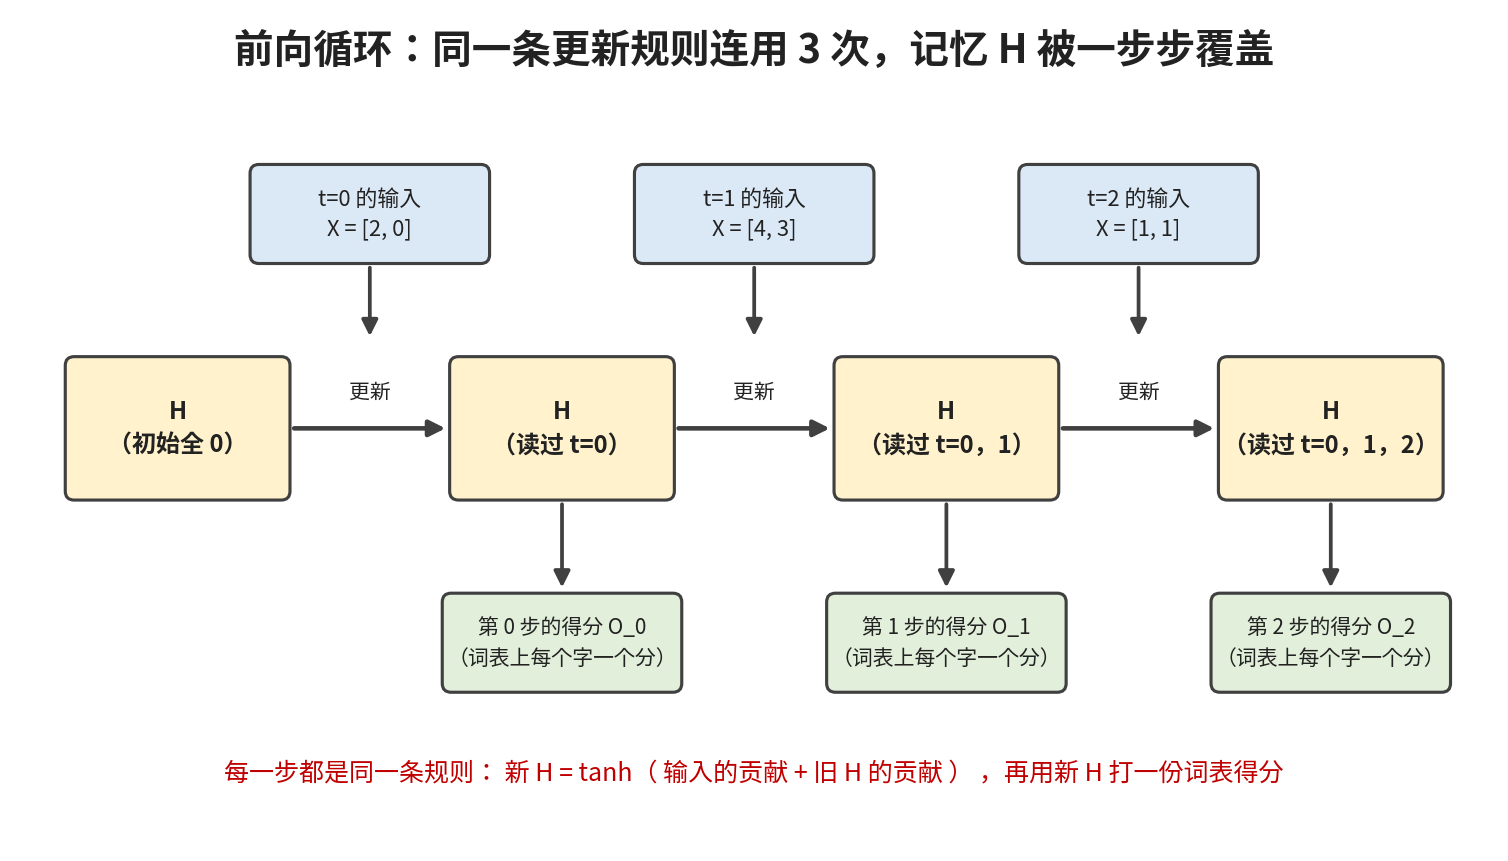
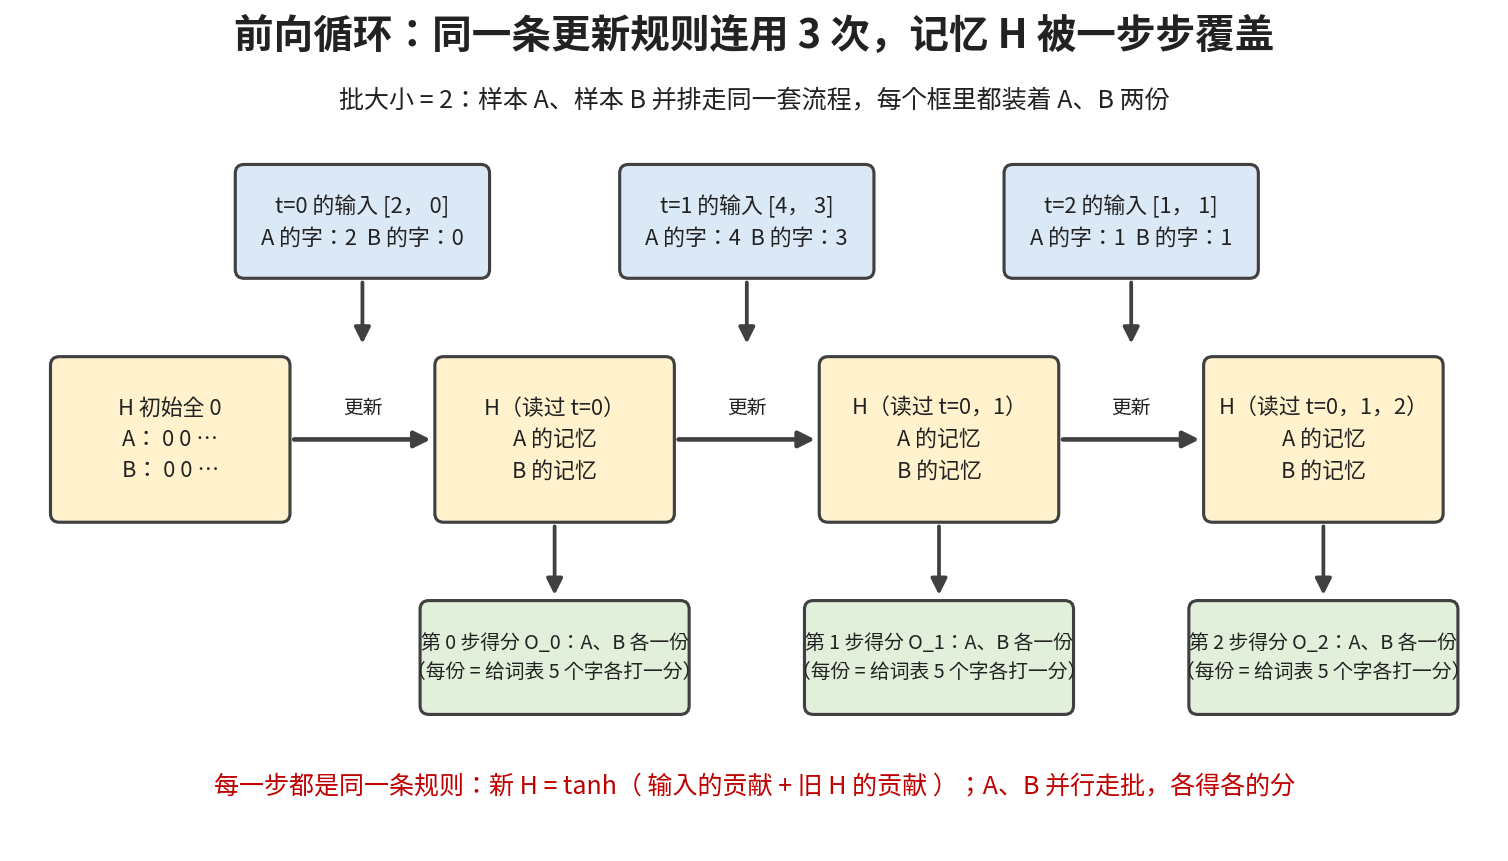
docs: RNN 文章章节重组：连乘拆成前向/反向两本账、先病后药、体量均衡

diff --git a/site/src/content/deep-learning/rnn.md b/site/src/content/deep-learning/rnn.md
@@ -2,7 +2,7 @@
 
 它要解决的矛盾一句话能说清：**想记住历史，又不能让参数爆炸。** 死记硬背的方案记得越多参数越多，注定走不远；RNN 的答案是不存历史本身，只存一个**固定大小、不断更新的"记忆账本"**。今天大语言模型"读到哪、记到哪"的直觉源头，就是这本账本。
 
-本文由浅入深：先看序列数据特殊在哪、文字怎么变成数字（一、二节），再看传统"数频率"方案怎么撞墙（三节）；然后是主角 RNN 的原理、评价指标和训练全程（四、五、六节）；最后拆开它的两大顽疾——梯度爆炸与消失（七、八节），看它的天花板怎么引出 LSTM 与注意力（九节）。
+本文由浅入深：先看序列数据特殊在哪、文字怎么变成数字（一、二节），再看传统"数频率"方案怎么撞墙（三节）；然后是主角 RNN 的原理、评价指标和训练全程（四、五、六节）；最后集中算一笔"连乘"的账——前向的雪球与 tanh 的刹车（七节）、反向的梯度爆炸与消失（八节），以及治法与 RNN 的天花板（九节）。
 
 ---
 
@@ -41,33 +41,26 @@
 
 > 本节回答："猜下一个词"的传统方案是什么？为什么注定走不通？
 
-**语言模型 = 给定前文，猜下一个词。** 它还附赠一个能力：给整句话的概率打分。链式法则把整句概率拆成 `P(x_1,…,x_T) = ∏ P(x_t | 前文)`——把一句话从头走到尾，把每一步真实出现的那个词拿到的概率连乘起来，就是整句话的概率。概率高的更"像人话"：语音识别里"你好"和"泥嚎"发音相同，语言模型算出前者概率高得多，就选它。
+**语言模型 = 给定前文，猜下一个词。** 把每一步的概率连乘起来（链式法则），还能给整句话打分——语音识别里"你好"和"泥嚎"发音相同，语言模型知道前者概率高得多，就选它（这个打分标准，第五节评价模型时还会用到）。
 
-实际计算不直接连乘，而是取 log 把连乘变加法：100 个词、每词概率 0.01，整句概率 10⁻²⁰⁰，早低于 float32 能表示的下限、会被舍入成 0（下溢）；取 log 后变成普通负数相加。再加个负号得到 **`−log P`（意外值）**：猜对为 0，越离谱越大——这正是交叉熵损失。
+那么 `P(下一个词 | 前文)` 从哪来？最朴素的答案是**数频率**，这就是 **n 元语法**（n-gram）：只看前 n−1 个词，用"数数"估概率——`P(learning|deep)` = "deep learning" 的次数 ÷ "deep" 的次数。
 
-![−log p：概率变意外值，连乘变加法](/knowhub/images/articles/rnn/neglog_surprise.png)
-
-那么 `P(下一个词 | 前文)` 从哪来？最朴素的答案是**数频率**——这就是 **n 元语法**（n-gram）：套用马尔可夫假设只看前 n−1 个词，比如 `P(learning|deep)` = "deep learning" 出现的次数 ÷ "deep" 出现的次数。
-
-它的死局用一个迷你语料就能完整走一遍。设全世界的语料只有 4 句话、词表 10 个词：
+它的死局用一个迷你语料就能走通。设全部语料只有 4 句话、词表 10 个词，用三元语法（看前 2 个词）：
 
 ```
 ① 我 爱 吃 苹果   ② 我 爱 吃 香蕉   ③ 他 爱 喝 咖啡   ④ 她 讨厌 喝 咖啡
 ```
 
-用三元语法（看前 2 个词）挨个验证：
+- **多看确实更准**：二元只看见"爱"，三句话的经验搅在一起（吃 2/3、喝 1/3）；三元分清了语境——`P(吃|我 爱) = 1`、`P(喝|他 爱) = 1`，从"三七开"变"笃定"；
+- **但表指数膨胀**：三元表 10³ = 1000 格，**n 每加 1 就多乘一个词表大小**——换成真实的 1 万词表，三元就是 10¹² 格；
+- **而且填不满**：这份语料只数得出 7 种三元组，1000 格里 993 个是 0。完全合理的新句"她 爱 喝 咖啡"，只因"她 爱"碰巧没出现过，`P(喝|她 爱) = 0/0`——一个 0 因子把整句概率干成 0；
+- **平滑救不了**：给所有计数加个小常数保底（拉普拉斯平滑），"她 爱 喝"得救成 1/10；可胡说八道的"她 爱 苹果"**也是 1/10**。计数表里"他""她"只是两个无关编号，"'他 爱 喝'很常见"这份经验**无法迁移**给"她 爱 喝"。
 
-- **数频率**：`P(苹果|爱 吃)` = "爱 吃 苹果"次数 ÷ "爱 吃"次数 = 1/2；
-- **确实更准**：二元只看见"爱"，把三句话的经验搅在一起（`P(吃|爱)=2/3、P(喝|爱)=1/3`）；三元多看一个词就分清了语境——`P(吃|我 爱) = 1`、`P(喝|他 爱) = 1`，从"三七开地猜"变成"笃定"；
-- **但表在指数膨胀**：要为"每种前缀 × 每个下一个词"都留一个计数格子，三元表 10×10×10 = 1000 格（二元才 100）——**n 每加 1，格子数就多乘一个词表大小**。换成真实的 1 万词表，三元就是 10¹² 个格子；
-- **而且填不满（稀疏）**：16 个词的语料只数得出 7 种三元组，1000 格里 993 个是 0。给完全合理的新句"她 爱 喝 咖啡"打分：`P(喝|她 爱) = 0/0`——"她 爱"碰巧没出现过，一个 0 因子把整句概率干成 0，模型宣称这句话"不可能出现"；
-- **平滑救不了**：拉普拉斯平滑给所有计数加个小常数保底，`P̂(喝|她 爱) = 1/10`，句子得救；可胡说八道的"她 爱 苹果"算出来**也是 1/10**。人能从"'他 爱 喝'出现过，他/她是近义词"推出"她 爱 喝"必然合理——计数表里"他""她"只是两个无关编号，**经验无法迁移**。
-
-更糟的是，语言本身就和数频率过不去。**齐普夫定律**说的是：把所有词按出现次数从高到低排名，**第 i 名的出现次数大约只有第 1 名的 1/i**（更一般地是 1/i 的 α 次方，α 是个接近 1 的常数）。也就是说，排第 2 的词出现次数约是冠军的一半，排第 100 的只有冠军的百分之一——极少数词超高频（the、of、and），绝大多数词都躺在低频长尾上。把横纵坐标都换成对数刻度（log-log），这条规律就画成一条笔直的下坡直线，而且一元、二元、三元词组全都满足：
+更糟的是，语言天生和数频率过不去。**齐普夫定律**：把词按出现次数从高到低排名，**第 i 名的次数大约只有第 1 名的 1/i**——第 2 名约是冠军的一半，第 100 名只有百分之一。极少数词超高频（the、of、and），绝大多数词躺在低频长尾上；横纵轴都取对数（log-log）就是一条笔直的下坡线——**直线的含义是：排名每 ×10，频次就 ÷10，且从头部到尾巴处处成立**，长尾不会断、也不会提前归零。一元、二元、三元词组全都如此：
 
 ![齐普夫定律：线性坐标看长尾，log-log 坐标看直线](/knowhub/images/articles/rnn/zipf_law.png)
 
-这意味着"没见过、数不准"不是例外，而是**常态**：数频率的前提是数得够多，可长尾里的词和词组几乎数不到；组合空间又是词表的平方、立方，观测被稀释得更狠。**死记硬背没有出路，需要能把经验从"他"迁移到"她"的模型——能"学关系"的神经网络。**
+所以"没见过、数不准"不是例外而是**常态**——长尾几乎数不到，组合空间还按词表的幂次膨胀。**死记硬背没有出路，需要能把经验从"他"迁移到"她"的模型：能"学关系"的神经网络。**
 
 ## 四、RNN：给网络装一本记忆账本
 
@@ -92,17 +85,19 @@ RNN 用两条公式取代那张天文数字的计数表：
 
 **其一，参数全时间步共享。** `W_xh、W_hh、W_hq` 三套权重在每个时间步都是同一套——所以**序列再长，参数量都不变**。n 元语法"记得越多参数越多"，RNN 记多久都是这一套参数，"循环"二字正来源于此：同一个计算被一遍遍套在每个时间步上。
 
-**其二，激活函数必须有，而且偏偏选 tanh。**
-
-- **没有非线性就白循环**：去掉 tanh 往前代两步，`H_2 = X_2·W_xh + X_1·(W_xh·W_hh) + H_0·W_hh²`——展开到任意步都只是"输入乘固定矩阵再相加"，循环 100 步的表达能力等于一步的线性模型；
-- **tanh 是限幅器**：同一个 `W_hh` 要被反复乘几十上百次，数值稍偏大就滚雪球（每步放大 1.2 倍，50 步 ≈ 9100 倍）。tanh 把输出压回 [-1,1]，记忆刚要膨胀就被摁回框里；
-- **ReLU 在这里是反面教材**：上不封顶（雪球没人踩刹车）、负区归零（记忆通道一断永断）。前馈网络怕"越传越弱"所以用 ReLU；RNN 怕"越滚越大"，需要刹车不是油门。
+**其二，激活函数必须有。** 去掉 tanh 往前代两步就明白了：`H_2 = X_2·W_xh + X_1·(W_xh·W_hh) + H_0·W_hh²`——展开到任意步，都只是"输入乘固定矩阵再相加"，循环 100 步的表达能力等于一步的线性模型。tanh 每步把结果"弄弯"，弯过就合并不掉了，循环才真正一步比一步深。至于为什么偏偏选 tanh、而不是更流行的 ReLU——这和 RNN 特有的"连乘"风险有关，第七节专门算这笔账。
 
 ## 五、困惑度：给语言模型打分
 
 > 本节回答：两个语言模型，怎么客观地比出谁更好？
 
-第三节已经备好了原料：模型每猜一个词，就产生一个意外值 `−log P(正确词)`——猜得越有把握，意外越小。把整句每一步的意外值取平均，就是**平均交叉熵损失**。它已经能比大小了，但有个毛病：**"损失 2.3"这种数没有直观单位**，说不出好到什么程度。
+第三节说过，整句话的概率 = 每一步"猜对真实下一个词"的概率连乘。哪个模型给真实文本的概率更高，哪个就更好——原则上这就是打分标准。但直接用它，要过两道坎。
+
+**第一道坎：连乘会把数"乘没了"。** 100 个词、每词概率 0.01，整句概率 10⁻²⁰⁰——早低于 float32 能表示的下限，会被直接舍入成 0（下溢）。解法是取 log 把连乘变加法：`log(a·b) = log a + log b`，天文小数变成普通负数相加；log 单调递增，"谁概率大"的比较结论不变。再加个负号得到 **`−log P`（意外值）**：猜对为 0，越离谱越大，概率趋于 0 时冲向无穷——这正是**交叉熵损失**。
+
+![−log p：概率变意外值，连乘变加法](/knowhub/images/articles/rnn/neglog_surprise.png)
+
+**第二道坎：长短句没法比。** 长句要连乘的项多，总损失天然更大，所以除以词数取平均——**平均交叉熵损失**。到这里已经能公平地比大小了，只剩最后一个毛病：**"损失 2.3"这种数没有直观单位**，说不出好到什么程度。
 
 **困惑度**（perplexity）就是给它配一个人能读懂的单位：
 
@@ -136,35 +131,43 @@ RNN 用两条公式取代那张天文数字的计数表：
 
 **② 独热 + 转时间步优先**：编号之间没有大小意义，先变成 one-hot 向量；再把 `(批量, 时间步)` 转置成 `(时间步, 批量, 词表)`，让循环每次取出"所有样本在同一时刻"的输入。
 
-**③ 前向循环**：`H` 初始化全 0，然后沿时间一步步走。每一步做的事完全相同：把"这一时刻的输入"和"上一刻的记忆"合成新记忆（覆盖掉旧的 `H`），再用新记忆给词表打一份预测得分——同一条规则连用 3 次：
+**③ 前向循环**：`H` 初始化全 0，然后沿时间一步步走。每一步做的事完全相同：把"这一时刻的输入"和"上一刻的记忆"合成新记忆（覆盖掉旧的 `H`），再用新记忆给词表打一份预测得分——同一条规则连用 3 次。注意 t=0 的输入 `[2, 0]` 里有两个数，对应**批量大小 2**：它们是样本 A、样本 B 在同一时刻各自的字符；`H` 里也并排存着 A、B 两条记忆，每一步的得分同样是**两条样本各一份**：
 
 ![前向循环：同一条更新规则连用 3 次](/knowhub/images/articles/rnn/blog-rnn-forward-loop.png)
 
 **④ 算损失**：所有时间步的输出拼起来，和标签算 softmax 交叉熵。
 
-**⑤ 反向 + 裁剪 + 更新**：反向传播算出梯度 → 梯度裁剪（下一节）→ 用裁好的梯度更新参数，顺序不能乱。
+**⑤ 反向 + 裁剪 + 更新**：反向传播算出梯度 → 梯度裁剪（给梯度限速防爆炸，第九节细讲）→ 用裁好的梯度更新参数，顺序不能乱。
 
-**⑥ 下一批的 `H`**：随机采样时批间不连续，`H` 清零重来；顺序分区时批间在原文相邻，`H` 传下去接着用，但要 **detach** 砍断计算图——否则反向传播会一路回溯到 epoch 开头（这就是第八节的"截断 BPTT"）。
+**⑥ 下一批的 `H`**：随机采样时批间不连续，`H` 清零重来；顺序分区时批间在原文相邻，`H` 传下去接着用，但要 **detach** 砍断计算图——否则反向传播会一路回溯到 epoch 开头（这就是第九节的"截断 BPTT"）。
 
 **训练完怎么用？** 给个开头如 `"time traveller"`：**预热期**逐字喂入、只更新 `H` 不输出，让空白记忆先"读入状态"；**生成期**每步取概率最高的字符，再把它当作下一步的输入，自回归逐字续写。
 
-## 七、梯度裁剪：训练 RNN 的安全带
+## 七、连乘的第一本账：前向的雪球与 tanh 的刹车
 
-> 本节回答：为什么训练 RNN 几乎必加梯度裁剪？
+> 本节回答：第四节的伏笔——为什么 RNN 选 tanh，不选 ReLU？
 
-梯度就像导航给的"方向 + 步子大小"。RNN 反向传播时同一个 `W_hh` 被连乘很多遍，数值稍大于 1、乘几十遍就指数放大——步子迈得离谱，参数被一把推飞，loss 变 NaN，训练当场崩。
+RNN 有个别的网络没有的处境：**同一个 `W_hh`，要沿时间被反复乘几十上百次。** 这件事有两本账——前向传播一本，反向传播一本。先算前向的。
 
-梯度裁剪是个**限速器**。把所有参数的梯度拼成一个大向量 `g`：
+前向传播里，`W_hh` 反复乘在记忆 `H` 上，数值稍偏大就滚雪球：每步放大 1.2 倍，50 步后就是 1.2⁵⁰ ≈ 9100 倍——记忆的数值直接冲上天。
 
-```
-g ← min(1, θ/‖g‖) · g        （阈值 θ 通常取 1）
-```
+**tanh 是刹车**：不管输入多大，输出都被压回 [-1, 1]——记忆刚要膨胀，就被摁回框里；而且它以 0 为中心，正负倾向都能表示，适合当记忆的容器。
 
-没超速（`‖g‖ ≤ θ`）原样放行；超速了就等比例缩回到长度恰为 θ——**方向一点不变，只压幅度**。实现起来就三步：把所有参数的梯度平方和开根号，得到总长度 `‖g‖`；超过阈值，就给每个梯度统一乘上 `θ/‖g‖`；没超过，什么都不做。
+**ReLU 在这里是反面教材**，两个毛病都致命：**上不封顶**——正数原样放行，雪球没人踩刹车；**负区归零**——某个记忆单元一旦算出负数就永远输出 0，这条记忆通道一断永断，之前存的信息全丢。
 
-注意它只治"爆炸"——把过大的梯度压回来；**治不了"消失"**：太小的梯度已经没了，没法凭空放大。两种病的共同根源，就在下一节。
+可 ReLU 明明是前馈网络（CNN/MLP）的标配，怎么到 RNN 就成了反面教材？因为**两种网络的病相反**：
 
-## 八、BPTT：爆炸与消失的总根源
+| | 前馈网络 | RNN |
+|---|---|---|
+| 连乘的因子 | 每层**不同**的权重（初始化很小）× sigmoid/tanh 的导数（≤1） | **同一个** `W_hh` 反复乘 |
+| 系统性偏向 | 因子普遍 < 1 → 信号**越传越弱** | 偏差每步同向累积 → **越滚越大** |
+| 对症的药 | ReLU：导数恒 1，不损耗（**油门**） | tanh：输出限幅（**刹车**） |
+
+前馈网络怕"越传越弱"，ReLU 是油门；RNN 怕"越滚越大"，需要的是刹车。
+
+不过，tanh 摁住的只是**前向的 `H`**。还有一本账它管不到——反向传播里，梯度的表达式里藏着同一个连乘，而那里没有任何东西夹它。
+
+## 八、连乘的第二本账：BPTT 与梯度的爆炸/消失
 
 > 本节回答：梯度到底怎么沿时间传播？为什么必然出问题？
 
@@ -199,18 +202,32 @@ h_t = w·h_{t-1} + x_t
 
 **隔了几步，就乘几个 `w`。** 真实 RNN 里一模一样，只是 `w` 换成矩阵 `W_hh`：因为每一步用的都是同一套参数，来自越早时间步的梯度贡献，被 `W_hh` 连乘的次数就越多。
 
-> 一个常见的迷糊值得点破：前向传播不也在连乘 `W_hh` 吗，怎么炸的偏偏是梯度？答案是两边都在连乘，但对象不同——前向的连乘作用在**记忆 H** 上，tanh 每一步都把它摁回 [-1,1]，炸不起来；反向的连乘出现在**梯度的表达式**里，没有任何东西夹它。
+这正是第七节留下的那本账：**前向的连乘有 tanh 夹着，反向的这个连乘，没有任何东西夹它。**
 
 ![BPTT 的要害：同一个 w 连乘](/knowhub/images/articles/rnn/blog-rnn-bptt.png)
 
 现在把数代进去。序列长到 50 步，来自第 1 步的贡献要背上 `w⁴⁹`：
 
-- `w = 1.2`：1.2⁴⁹ ≈ **7600** —— 早期项被放大几千倍，**梯度爆炸**（第七节的裁剪治它）；
+- `w = 1.2`：1.2⁴⁹ ≈ **7600** —— 早期项被放大几千倍，**梯度爆炸**（第九节的裁剪治它）；
 - `w = 0.8`：0.8⁴⁹ ≈ **0.00002** —— 早期项几乎归零，**梯度消失**。
 
 消失比爆炸隐蔽得多：消失的不是整个梯度，而是**来自早期时间步的那些项**——训练不崩、loss 照降，但模型**只从最近几步学东西**。回到开头那句话："小明 出生 在 **法国** ……（中间 40 个词）…… 他 说 一口 流利 的 ___"——猜"法语"靠的那条关联带着 `w⁴⁰`，早就消失了，模型永远学不会。**这就是"RNN 记不住长期依赖"的准确含义。** 而且消失没法像爆炸那样"裁"回来：爆炸是太大压小（信息还在），消失是信息已经没了、你不知道它本来该是多少——只能换架构。
 
-真实 RNN 里，命运由 `W_hh` 特征值的绝对值 `|λ|` 主导：**>1 爆炸，<1 消失**——时间一长，几乎不可能恰好卡在 1。怎么办？摆在面前的有三条路：
+真实 RNN 里，命运由 `W_hh` 特征值的绝对值 `|λ|` 主导：**>1 爆炸，<1 消失**——时间一长，几乎不可能恰好卡在 1。怎么办？下一节把药方摆上桌。
+
+## 九、治得了与治不了：裁剪、截断与 RNN 的天花板
+
+> 本节回答：两种病怎么治？治不好的部分通向哪里？
+
+**先治爆炸：梯度裁剪。** 梯度就像导航给的"方向 + 步子大小"——第八节的连乘会让步子指数放大，参数被一把推飞，loss 变 NaN，训练当场崩。裁剪是个**限速器**：把所有参数的梯度拼成一个大向量 `g`，
+
+```
+g ← min(1, θ/‖g‖) · g        （阈值 θ 通常取 1）
+```
+
+没超速（`‖g‖ ≤ θ`）原样放行；超速了就等比例缩回到长度恰为 θ——**方向一点不变，只压幅度**。实现三步：梯度平方和开根号得 `‖g‖`；超过阈值就统一乘上 `θ/‖g‖`；没超过不动。这正是第六节训练流程第 ⑤ 步的那道工序。但注意：裁剪只治"爆炸"，**治不了"消失"**——太小的梯度已经没了，没法凭空放大。
+
+**再治算不动：截断 BPTT。** 完整梯度是几十项的连乘求和，三条路摆在面前：
 
 | 策略 | 做法 | 结局 |
 |---|---|---|
@@ -227,11 +244,7 @@ h_t = w·h_{t-1} + x_t
 
 实现就是第六节那个 **detach**：数值留下（前向的记忆照传），计算图砍断（反向到此为止）。至此，训练流程里的两个"补丁"——梯度裁剪和 detach——都补上了"所以然"。
 
-## 九、天花板与下一站
-
-> 本节回答：RNN 做不到什么？路通向哪里？
-
-把全文串成一条线：
+**治不好的，就是天花板。** 把全文串成一条线：
 
 - **序列数据**前后相关、顺序不能动，预测要靠"记住历史"；
 - **n 元语法**死记硬背，参数指数膨胀 + 长尾稀疏，撞墙；
